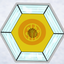
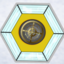
EngUpdate

diff --git a/Project/src/TowerType.java b/Project/src/TowerType.java
@@ -4,7 +4,7 @@ import org.newdawn.slick.opengl.Texture;
 public enum TowerType {
 
 	sTower(new Texture[]{Graphics.QuickLoad("sTower"), Graphics.QuickLoad("sCannon")}, ProjectileType.sProjectile, 10, 10, 30), 
-	schulichTower(new Texture[]{Graphics.QuickLoad("engTower")}, ProjectileType.sProjectile, 20, 10, 30),
+	schulichTower(new Texture[]{Graphics.QuickLoad("engTower"), Graphics.QuickLoad("engCannon")}, ProjectileType.engProjectile, 20, 10, 30),
 	haskTower(new Texture[]{Graphics.QuickLoad("haskTower"), Graphics.QuickLoad("haskCannon")}, ProjectileType.haskProjectile, 10, 10, 30);
 	
 	Texture[] texture;

diff --git a/Project/src/ProjectileType.java b/Project/src/ProjectileType.java
@@ -5,6 +5,7 @@ public enum ProjectileType {
 
 	
 	sProjectile(Graphics.QuickLoad("sProjectile"), 15, 500),
+	engProjectile(Graphics.QuickLoad("engProjectile"), 15, 500),
 	haskProjectile(Graphics.QuickLoad("haskProjectile"), 10,600);
 	
 	Texture texture;
